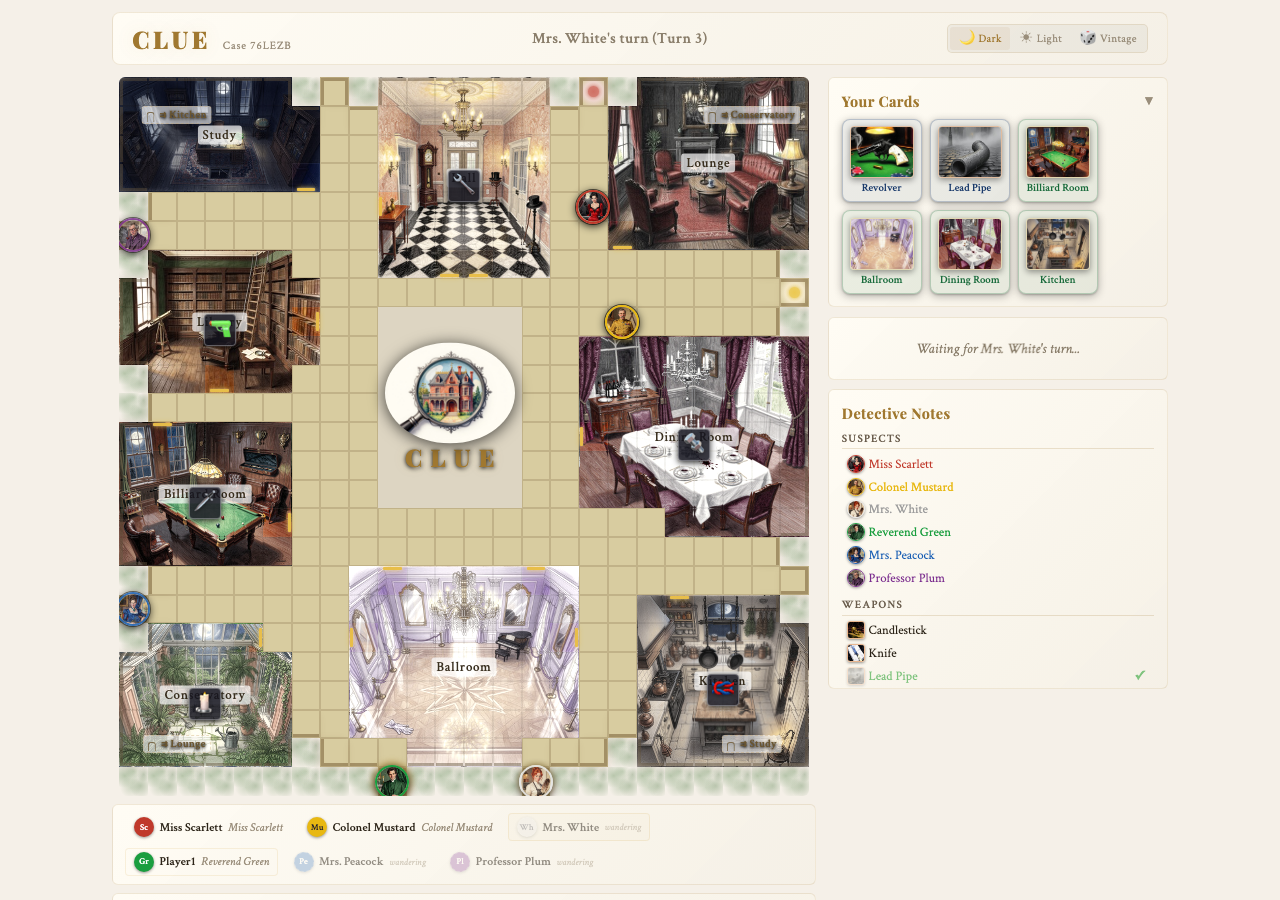
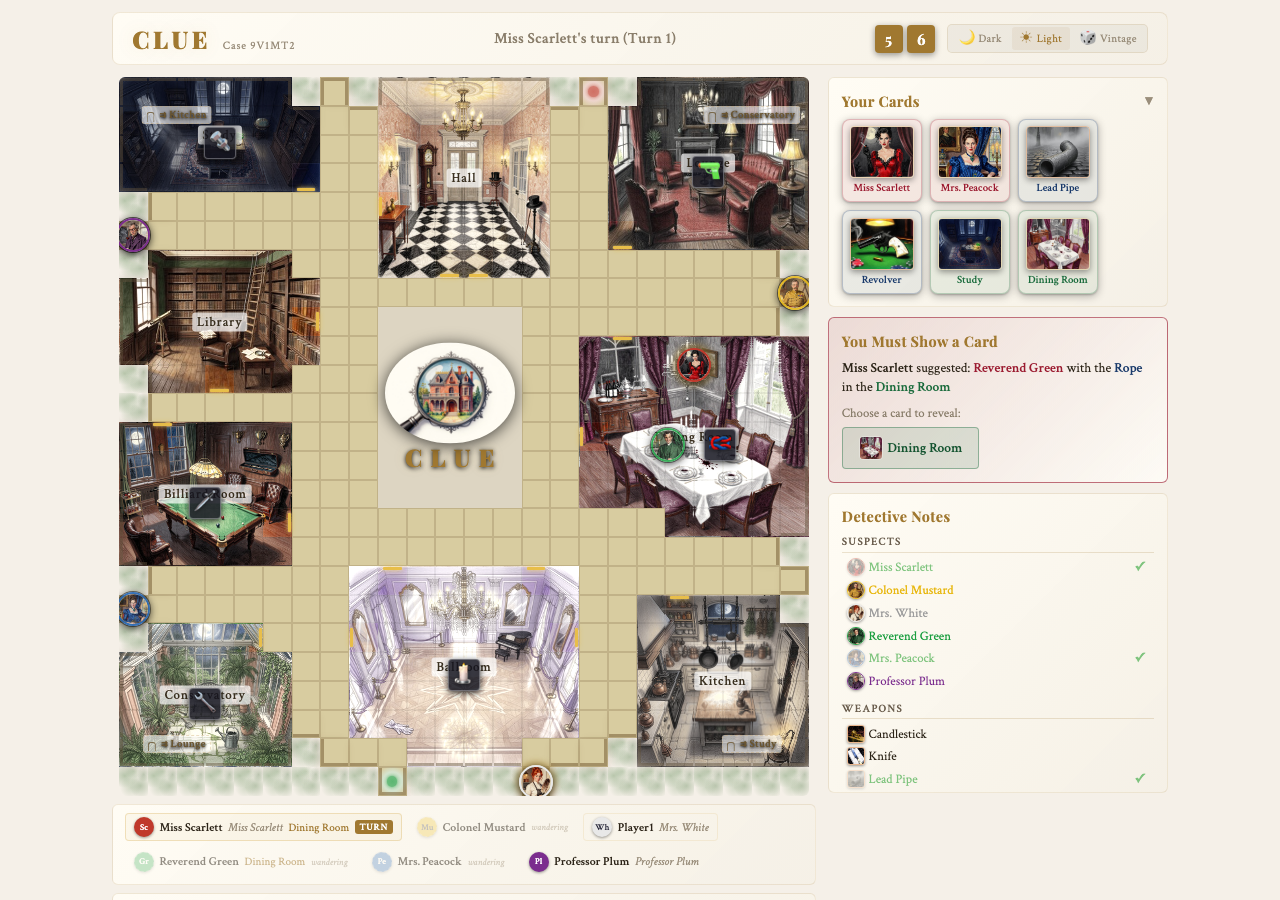
fix: re-capture theme screenshots with proper board background
Use theme switcher buttons instead of raw DOM manipulation so Vue
reactive state updates and the vintage board image loads correctly.
Renumber themed screenshots to 016-020 matching the main sequence.

diff --git a/scripts/git_history_screenshot_worker.js b/scripts/git_history_screenshot_worker.js
@@ -12,8 +12,9 @@ const { chromium } = require("playwright");
 const BASE_URL = process.env.BASE_URL || "http://localhost:5173";
 const BACKEND_URL = process.env.BACKEND_URL || "http://localhost:8000";
 
-const [, , label, outputDir, gamesArg] = process.argv;
+const [, , label, outputDir, gamesArg, themesArg] = process.argv;
 const games = (gamesArg || "clue,holdem").split(",");
+const themes = themesArg ? themesArg.split(",") : [];
 
 function sleep(ms) {
   return new Promise((resolve) => setTimeout(resolve, ms));
@@ -136,6 +137,24 @@ async function screenshotClueViaUI(browser, label, outputDir) {
 
     await page.screenshot({ path: `${outputDir}/${label}_clue.png` });
     console.log("  Saved Clue screenshot");
+
+    // If themes are requested, cycle through them using the footer theme buttons
+    if (themes.length > 0) {
+      for (const theme of themes) {
+        try {
+          const themeName = theme.charAt(0).toUpperCase() + theme.slice(1);
+          const themeBtn = await page.$(`button:has-text("${themeName}")`);
+          if (themeBtn) {
+            await themeBtn.click();
+            await sleep(1500);
+          }
+          await page.screenshot({ path: `${outputDir}/${label}_clue_${theme}.png` });
+          console.log(`  Saved Clue screenshot (${theme} theme)`);
+        } catch (err) {
+          console.log(`  Theme ${theme} screenshot failed:`, err.message);
+        }
+      }
+    }
   } catch (err) {
     console.log("  Clue UI screenshot failed:", err.message);
     // Take a screenshot anyway to see what we got
